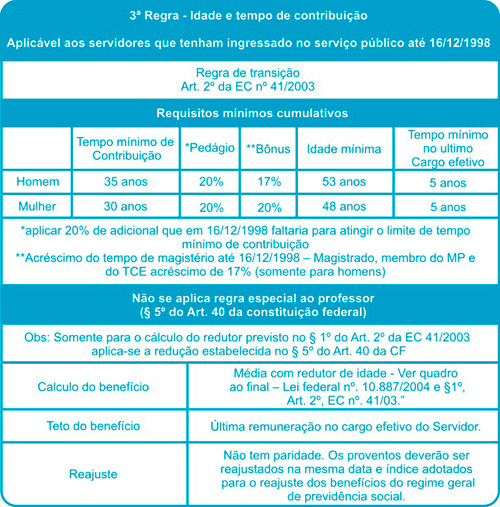
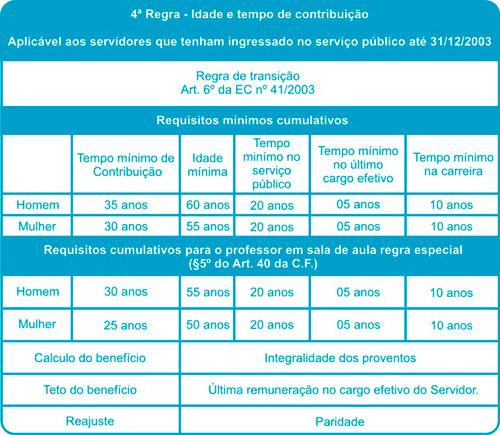
melhorias na rotina de aposentadoria

diff --git a/_classes/class.PrevisaoAposentadoria.php b/_classes/class.PrevisaoAposentadoria.php
@@ -31,6 +31,7 @@ class PrevisaoAposentadoria {
     private $contribuicaoMulher = null;
     private $servicoPublico = null;
     private $cargoEfetivo = null;
+    private $carreira = null;
 
     /*
      *  Regras tratadas
@@ -106,6 +107,7 @@ class PrevisaoAposentadoria {
     private $pontuacaoInicialDescricao = "Pontuação Inicial.";
     private $pedagioDescricao = "Período adicional de contribuição calculado apartir do tempo de contribuição que faltava ao servidor em ";
     private $compulsoriaDescricao = "A data calculada deve ser anterior a data da aposentadoria compulsória";
+    private $carreiraDescricao = "Tempo dentro da Uenf. (No mesmo Órgão)";
 
     /*
      *  Relatório
@@ -147,6 +149,7 @@ class PrevisaoAposentadoria {
     private $analisePedagio = null;
     private $analiseCompulsoria = null;
     private $analiseReducao = null;
+    private $analiseCarreira = null;
 
     /*
      *  Variaveis de Retorno    
@@ -160,6 +163,7 @@ class PrevisaoAposentadoria {
     private $dataCriterioTempoCargo = null;
     private $dataDireitoAposentadoria = null;
     private $dataCriterioRedutor = null;
+    private $dataCriterioCarreira = null;
     private $temDireito = true;
     private $textoRetorno = null;
     private $textoReduzido = null;
@@ -610,29 +614,26 @@ class PrevisaoAposentadoria {
                 # Descrição
                 $this->tipo = "Direito Adquirido";
                 $this->descricao = "Aposentadoria por Idade e Tempo de Contribuição";
-                $this->descricaoResumida = "Art. 2 da EC nº 41/2003";
-                $this->legislacao = "Art. 2 da EC nº 41/2003";
+                $this->descricaoResumida = "Art. 6 da EC nº 41/2003";
+                $this->legislacao = "Art. 6 da EC nº 41/2003";
 
                 # Regras
-                $this->idadeHomem = 53;
-                $this->idadeMulher = 48;
+                $this->idadeHomem = 60;
+                $this->idadeMulher = 55;
                 $this->contribuicaoHomem = 35;
                 $this->contribuicaoMulher = 30;
+                $this->servicoPublico = 20;
                 $this->cargoEfetivo = 5;
-
-                # Pedagio
-                $this->pedagio = 20;
-                $this->pedagioData = "16/12/1998";
+                $this->carreira = 10;
 
                 # Datas
-                $this->dtRequesitosCumpridos = "31/12/2021";
-                $this->dtIngresso = "16/12/1998";
+                #$this->dtRequesitosCumpridos = "31/12/2021";
+                $this->dtIngresso = "31/12/2003";
 
                 # Remuneração
-                $this->calculoInicial = "Média aritmética simples dos 80% das maiores remunerações de contribuições corrigidas desde julho/94 - Proporcional ao tempo de contribuição - Lei Federal 10.887";
+                $this->calculoInicial = "Integralidade dos Proventos";
                 $this->teto = "Última remuneração no cargo efetivo do servidor";
-                $this->reajuste = "Segue as datas e índices adotados no regime geral da previdência social";
-                $this->paridade = "SEM PARIDADE";
+                $this->paridade = "COM PARIDADE";
 
                 # Cartilha
                 $this->cartilha1 = "direitoAdquirido3.jpg";
@@ -800,6 +801,17 @@ class PrevisaoAposentadoria {
         } else {
             $this->analiseContribuicao = "Ainda faltam<br/>{$resta1} dias.";
         }
+        
+        /*
+         *  Tempo de Carreira
+         */
+        $resta1 = ($this->carreira * 365) - $this->servidorTempoUenf;
+        $this->dataCriterioCarreira = addDias($hoje, $resta1, false);  // retiro a contagem do primeiro dia para não contar hoje 2 vezes
+        if ($this->servidorTempoUenf >= ($this->carreira * 365)) {
+            $this->analiseCarreira = "OK";
+        } else {
+            $this->analiseCarreira = "Ainda faltam<br/>{$resta1} dias.";
+        }
 
         /*
          *  Serviço Público Initerrupto
@@ -956,7 +968,8 @@ class PrevisaoAposentadoria {
             $this->dataCriterioTempoCargo,
             $this->dataCriterioPontos,
             $this->dataCriterioPedagio,
-            $this->dataCriterioRedutor
+            $this->dataCriterioRedutor,
+            $this->dataCriterioCarreira
         ];
 
         # Define a data do critério idade quando tem redução
@@ -1096,6 +1109,17 @@ class PrevisaoAposentadoria {
                         $this->analisaDtIngressoApartir]);
         }
 
+        # Tempo de carreira (se tiver)
+        if (!is_null($this->carreira)) {
+            array_push($array,
+                    ["Carreira",
+                        $this->carreiraDescricao,
+                        "{$this->carreira} anos<br/>(" . ($this->carreira * 365) . " dias)",
+                        intval($this->servidorTempoUenf / 365) . " anos<br/>({$this->servidorTempoUenf} dias)",
+                        $this->dataCriterioCarreira,
+                        $this->analiseCarreira]);
+        }
+        
         # Tempo de Contribuição (se tiver)
         if (!is_null($this->contribuicaoHomem)) {
             array_push($array,
@@ -1371,6 +1395,11 @@ class PrevisaoAposentadoria {
         # Tempo cargo efetivo
         if (!is_null($this->cargoEfetivo)) {
             array_push($array, ["<p id='pLinha1'>Cargo Efetivo</p><p id='pLinha4'>{$this->tempoCargoDescicao}</p>", $this->cargoEfetivo . " anos<br/>(" . ($this->cargoEfetivo * 365) . " dias)", $this->cargoEfetivo . " anos<br/>(" . ($this->cargoEfetivo * 365) . " dias)"]);
+        }
+        
+        # Tempo carreira
+        if (!is_null($this->cargoEfetivo)) {
+            array_push($array, ["<p id='pLinha1'>Carreira</p><p id='pLinha4'>{$this->tempoCargoDescicao}</p>", $this->cargoEfetivo . " anos<br/>(" . ($this->cargoEfetivo * 365) . " dias)", $this->cargoEfetivo . " anos<br/>(" . ($this->cargoEfetivo * 365) . " dias)"]);
         }
 
         # Exibe a tabela
